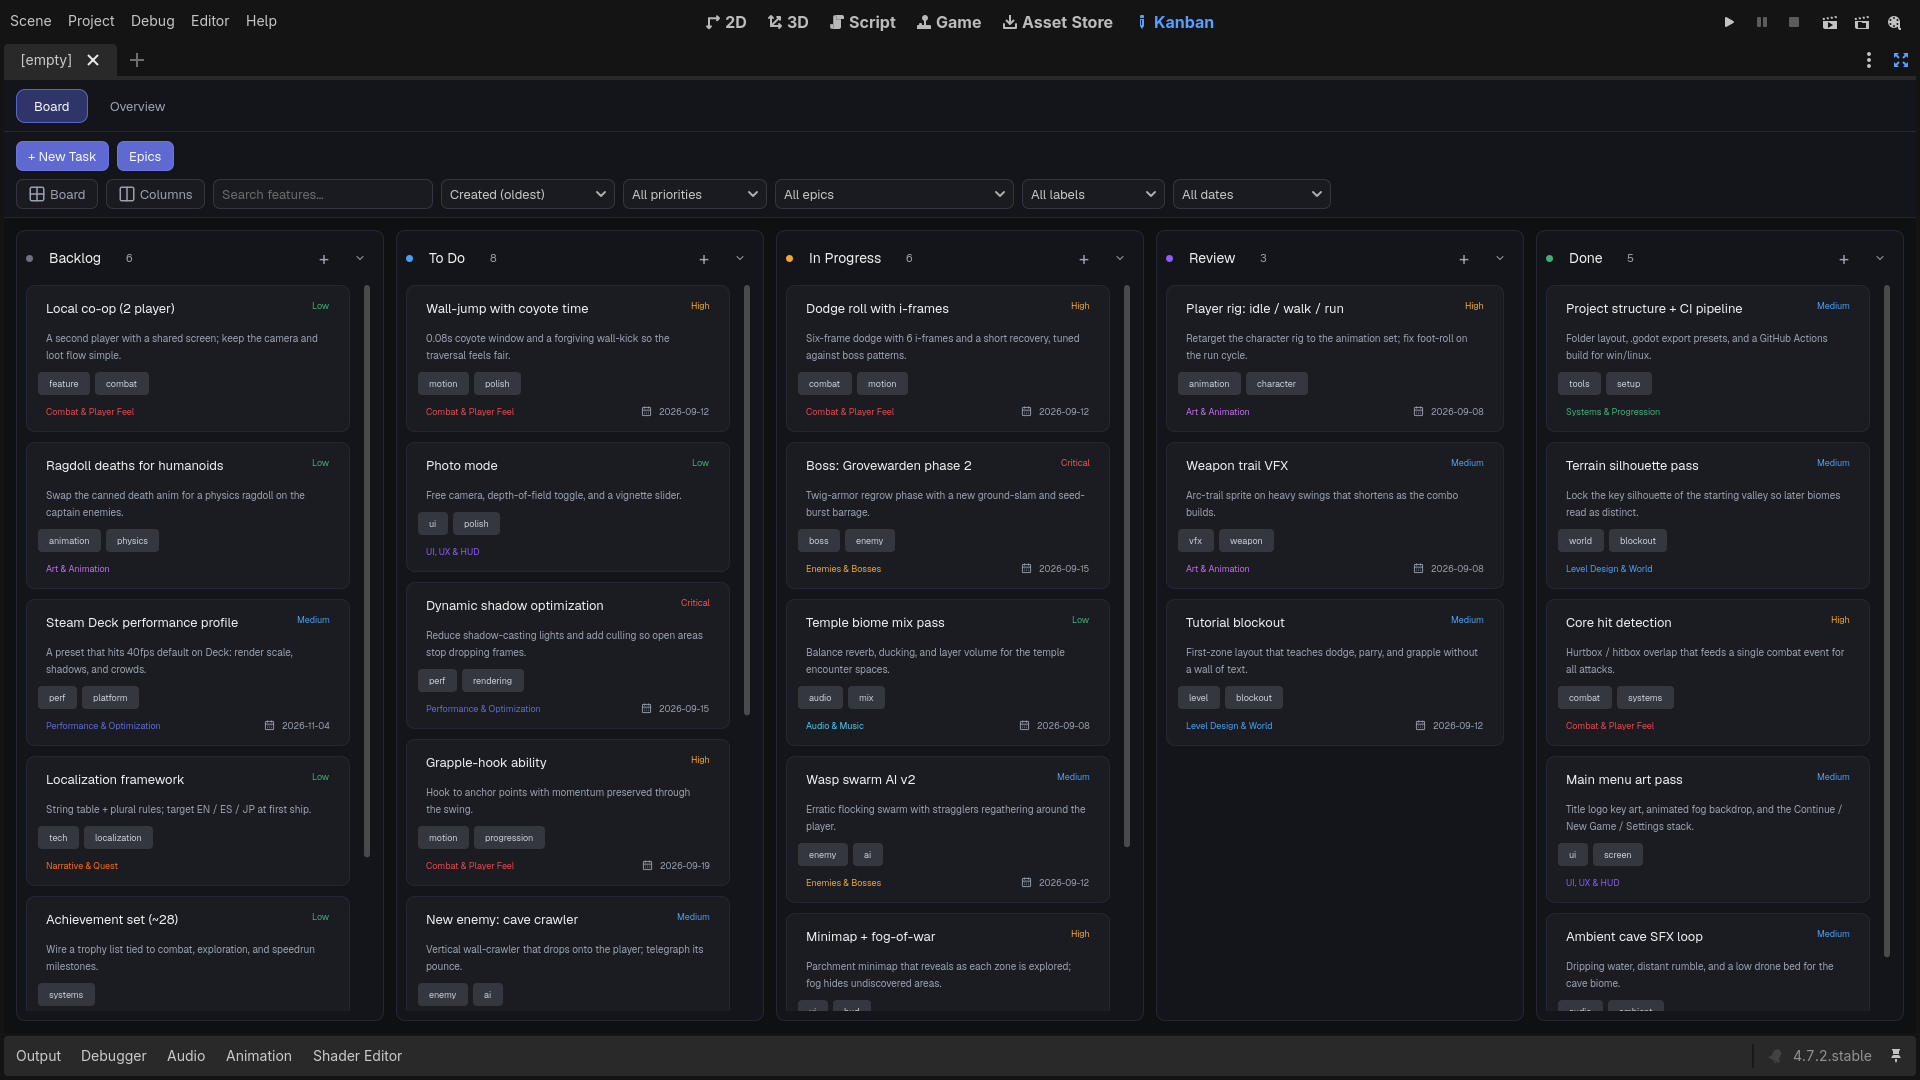
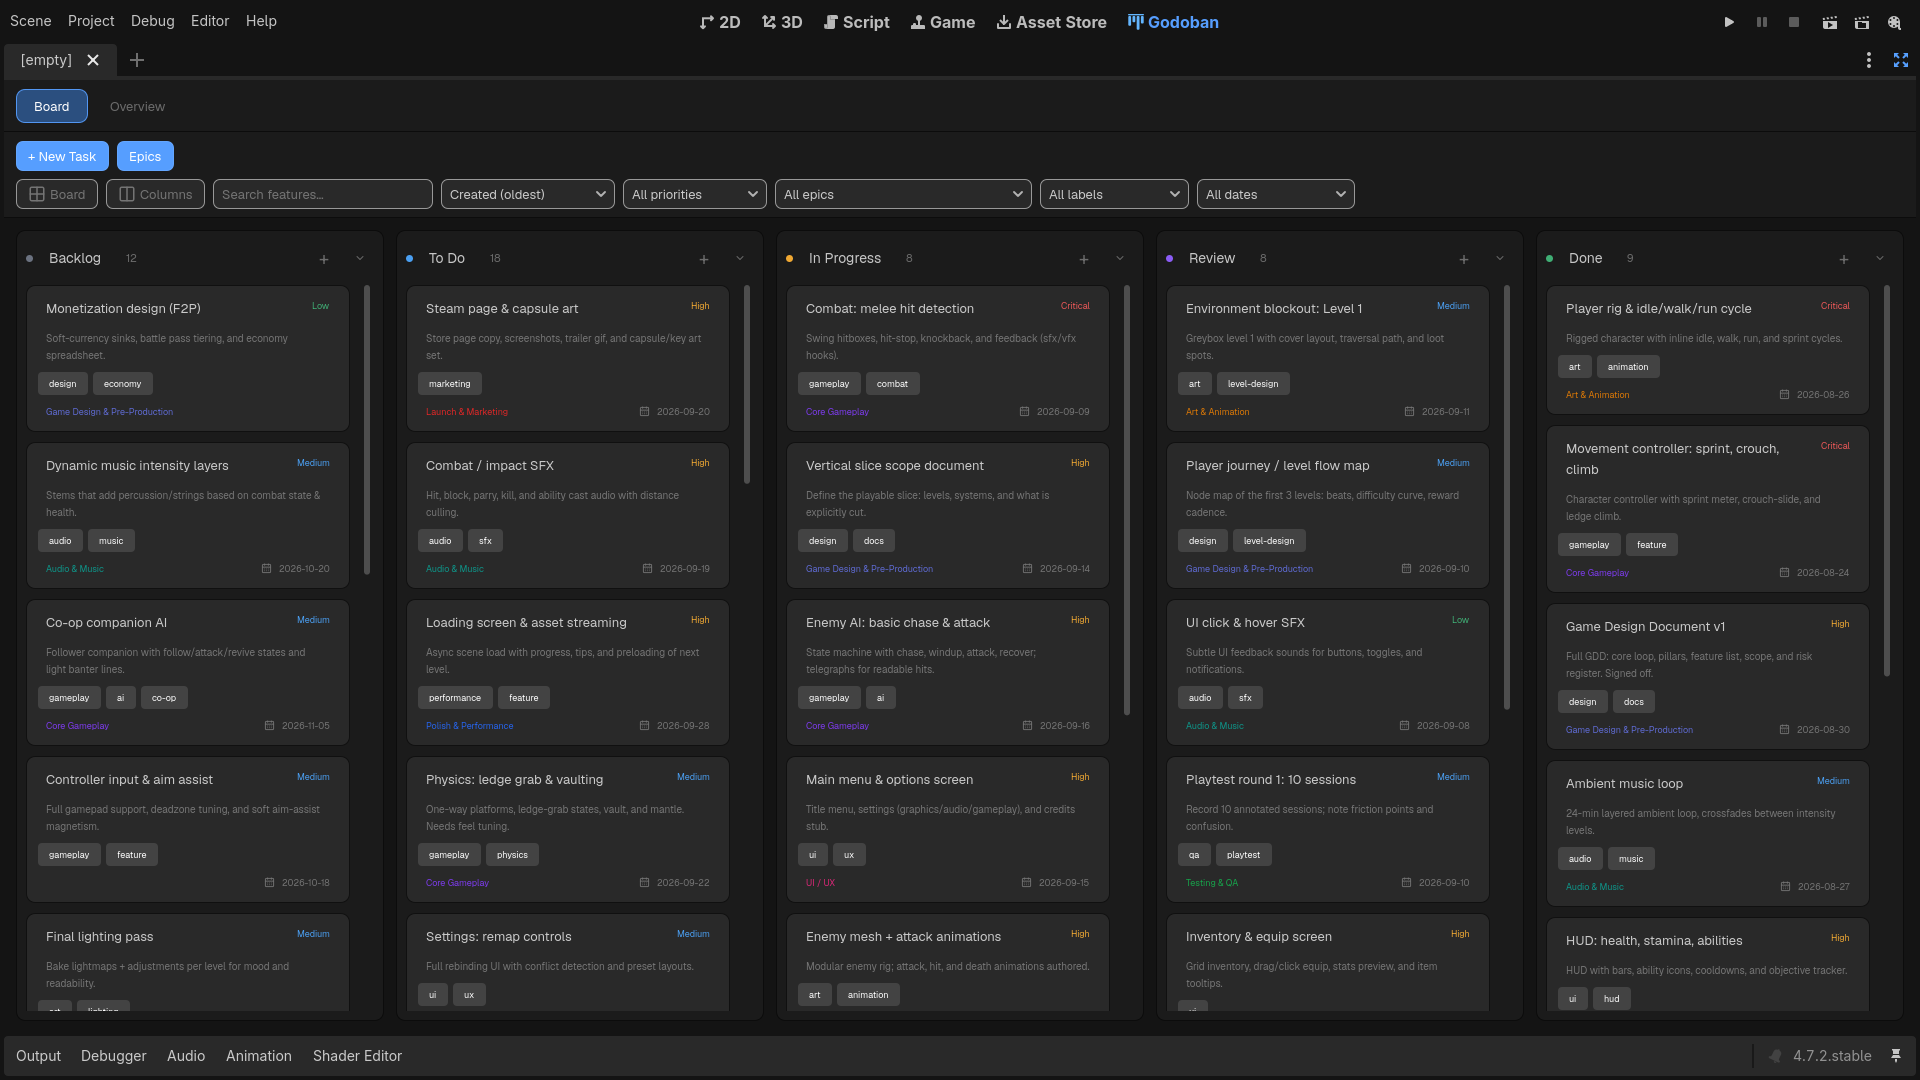
Version, README and other files update
Appropriately updated the version number due to the last changes (theme and icon update).

Added CHANGELOG.md to keep track of per-version changes.

Updated screenshots and README for the Editor-native theme feature.

Added SECURITY.md

diff --git a/README.md b/README.md
@@ -59,6 +59,14 @@
       <br><sub>Stats, a by-status donut, priority bars, and actionable lists</sub>
     </td>
   </tr>
+  <tr>
+    <td colspan="2" align="center">
+      <!-- TODO (author): replace this placeholder with a screenshot of the board in your editor theme -->
+      <img src="addons/godoban/screenshots/theme.png" alt="Editor-Native Theme" width="480">
+      <br><strong>Editor-Native Theme</strong>
+      <br><sub>The board adopts your editor theme's colors — dark or light — so it reads as native to the editor</sub>
+    </td>
+  </tr>
 </table>
 </div>
 
@@ -159,6 +167,20 @@ The same data, presented the way you want it.
 
 </details>
 
+### 🎨 Editor-Native Theme
+
+The board matches your editor theme, so it looks like it belongs right in the editor.
+
+<details>
+<summary><strong>See theme details</strong></summary>
+
+| Feature | Description |
+|---|---|
+| **Matches the Editor** | Colors follow your current editor theme — dark or light. |
+| **Auto-Updates** | The palette re-syncs on every theme change. |
+
+</details>
+
 ---
 
 ## 🛠 Installation
@@ -191,7 +213,7 @@ Godoban is a self-contained editor plugin. You can drop it straight into any God
 | **Language** | GDScript (`@tool`, runs in the editor) |
 | **Persistence** | Pretty-printed JSON via `FileAccess` + `JSON` |
 | **UI** | Native `Control` nodes, no scene files — the whole board is built in code |
-| **Design System** | Central theme (`theme.gd`) + rasterized SVG glyphs (`icons.gd`) |
+| **Design System** | Editor-native theme (`theme.gd`, resolves colors from Godot's editor theme) + rasterized SVG glyphs (`icons.gd`) |
 
 ---
 

diff --git a/SECURITY.md b/SECURITY.md
@@ -1,0 +1,12 @@
+# Security Policy
+
+## Reporting a Vulnerability
+
+If you find a security vulnerability or any other issue, please report it to me. The best place to do so is the GitHub issues page:
+
+**[Report a vulnerability or issue here](https://github.com/Jael-G/Godoban/issues)**
+
+Please include as much detail as possible — a description of the problem, how to reproduce it, and any suggestions you have. I appreciate you taking the time to help make this project better, and I'll do my best to fix things 
+as quickly as I can.
+
+Thank you!

diff --git a/CHANGELOG.md b/CHANGELOG.md
@@ -1,0 +1,17 @@
+# Changelog
+
+All notable changes to this project will be documented in this file.
+
+## [Unreleased]
+
+## [1.0.2] - 2026-09-06
+
+### Changed
+
+- Replaced the default editor plugin icon with a bespoke Kanban logo (`icon.svg`).
+
+## [1.0.1] - 2026-09-06
+
+### Changed
+
+- The board now uses Godot's editor theme colors instead of its own hard-coded palette, so it follows the editor in both dark and light themes. Only semantic colors (status, priority, overdue, and per-epic accents) remain custom.
